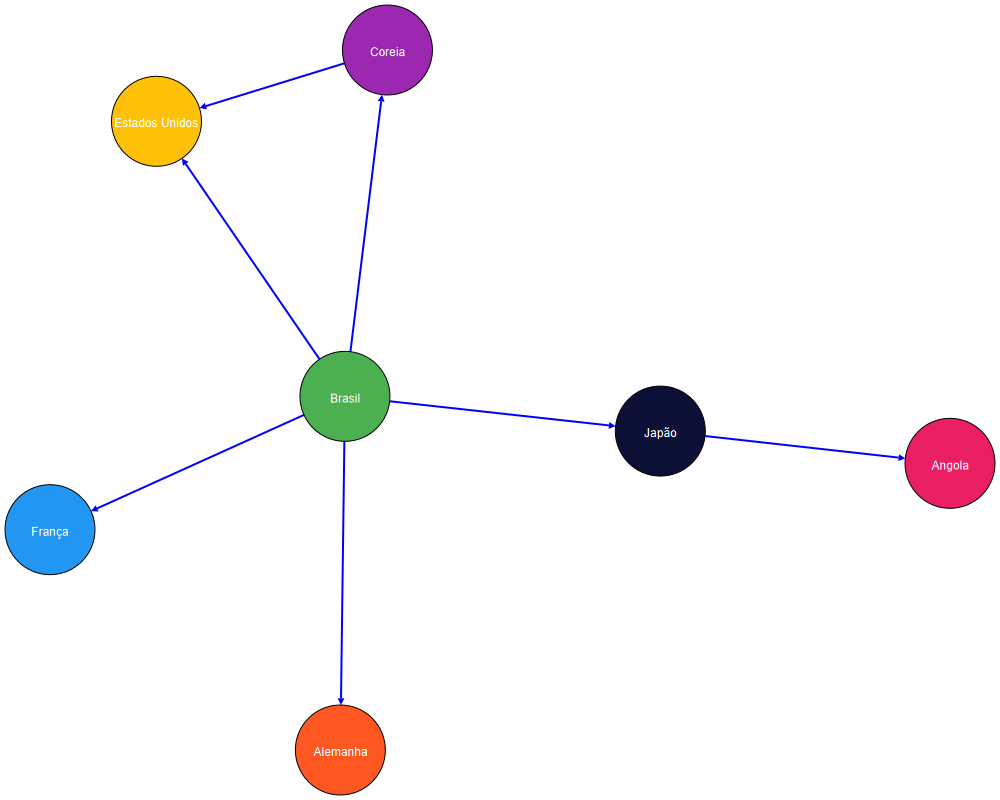
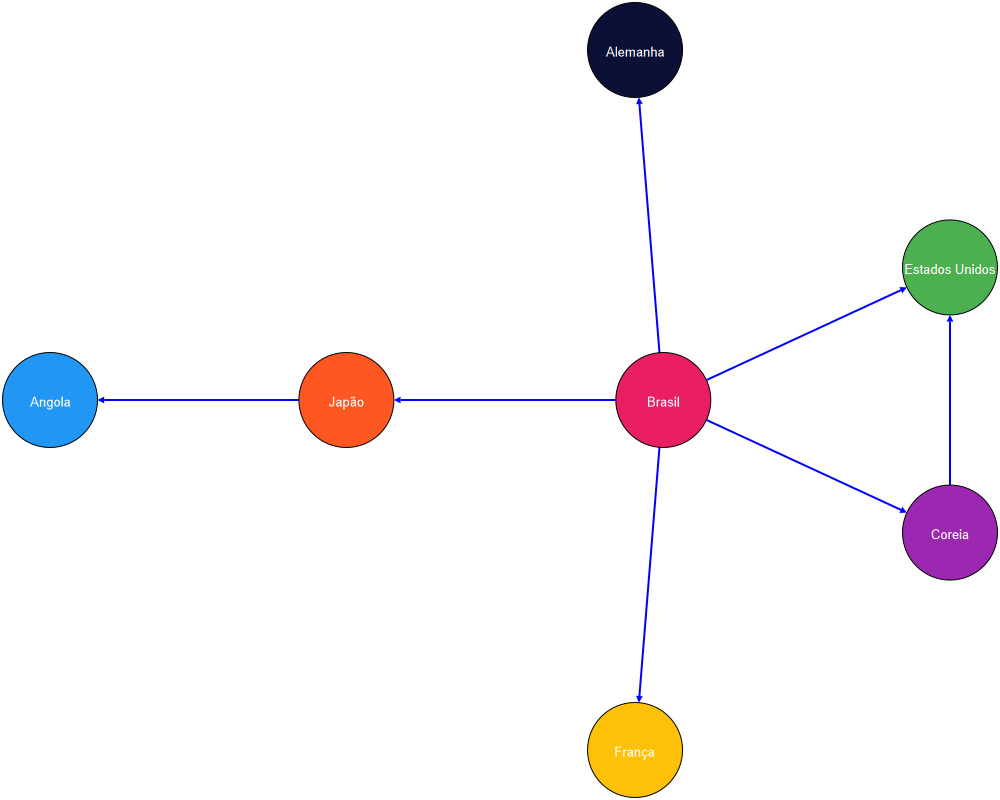
atualizando o grafico

diff --git a/templates/grafico_voos.html b/templates/grafico_voos.html
@@ -9,7 +9,7 @@
 
     <div class="container">
         <h1>Mapa de Conexões Aéreas</h1>
-        <img src="/static/{{ imagem_grafo }}" alt="Grafo de Rotas">
+        <img src="static/img/grafo.png" alt="Grafo de Rotas">
     </div>
 
 </body>

diff --git a/main.py b/main.py
@@ -446,7 +446,7 @@ def criar_imagem_grafo(voos):
     os.makedirs(pasta, exist_ok=True)
     caminho_arquivo = os.path.join(pasta, "grafo.png")
     
-    tamanho_vertices = 90  # tamanho fixo para todos os vértices
+    tamanho_vertices = 95  # tamanho fixo para todos os vértices
     cores = ["#4CAF50", "#2196F3", "#FFC107", "#E91E63", "#9C27B0", "#FF5722", "#0C0F36", "#360C0C", "#BE1873"]
     cor_vertices = [cores[i % len(cores)] for i in range(len(g.vs))]
     
@@ -457,7 +457,7 @@ def criar_imagem_grafo(voos):
         "vertex_color": cor_vertices,
         "vertex_label": g.vs["name"],  # nome do país dentro da bola
         "vertex_label_color": "white",
-        "vertex_label_size": 12,
+        "vertex_label_size": 13, #tamanho da letra 
         "vertex_label_font": "Arial",
         "vertex_label_dist": 0,
         "edge_color": "blue",
